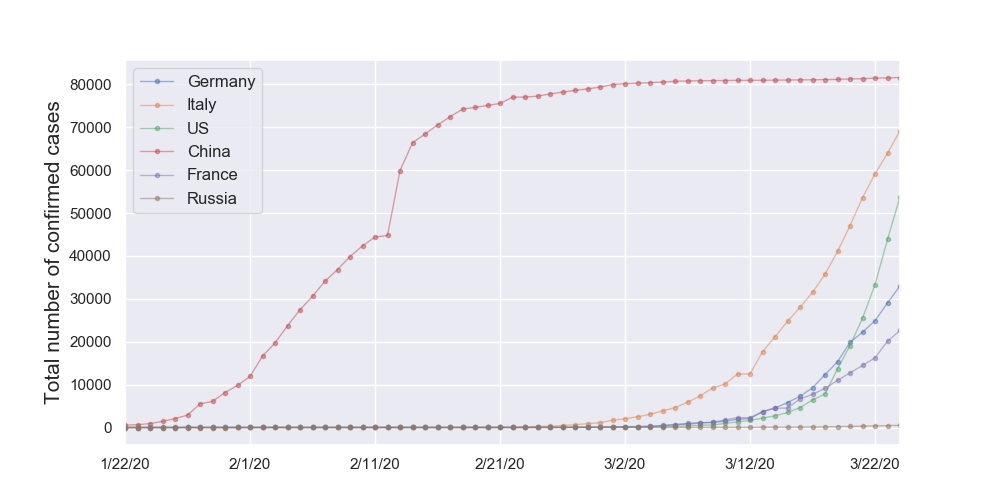
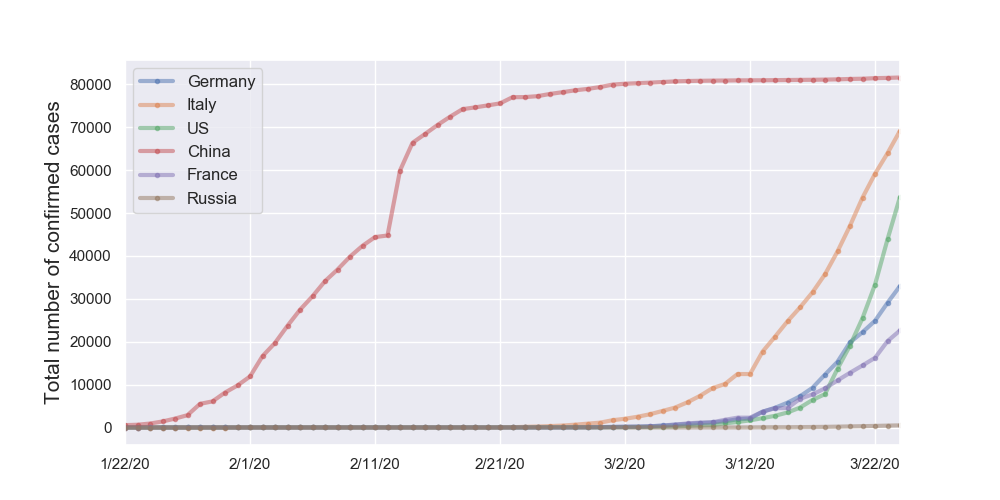
Daily UPD

diff --git a/COVID.py b/COVID.py
@@ -122,7 +122,7 @@ plt.savefig('/Users/mminakova/Documents/COVID/covid_tracker/covid/Acceleration a
 
 
 cols_plot = ['Germany', 'Italy', 'US', 'China', 'France', 'Russia']
-axes = diff[cols_plot].plot(marker='.', alpha=0.5, linestyle='-', linewidth = 1, figsize=(10, 5))
+axes = diff[cols_plot].plot(marker='.', alpha=0.5, linestyle='-', linewidth = 3, figsize=(10, 5))
 axes.set_ylabel('Total number of confirmed cases', fontsize = 15)
 axes.legend(fontsize = 'medium')
 plt.savefig('/Users/mminakova/Documents/COVID/covid_tracker/covid/Total number of confirmed cases.png')
@@ -132,7 +132,7 @@ plt.savefig('/Users/mminakova/Documents/COVID/covid_tracker/covid/Total number o
 
 
 cols_plot = ['Germany', 'Italy', 'US', 'China', 'France', 'Russia']
-axes = diff7_1[cols_plot].plot(marker='.', alpha=0.5, linestyle='-', linewidth = 1, figsize=(10, 5))
+axes = diff7_1[cols_plot].plot(marker='.', alpha=0.5, linestyle='-', linewidth = 3, figsize=(10, 5))
 
 axes.set_ylabel('7 Day New Cases', fontsize = 15)
 axes.legend(fontsize = 'medium')
